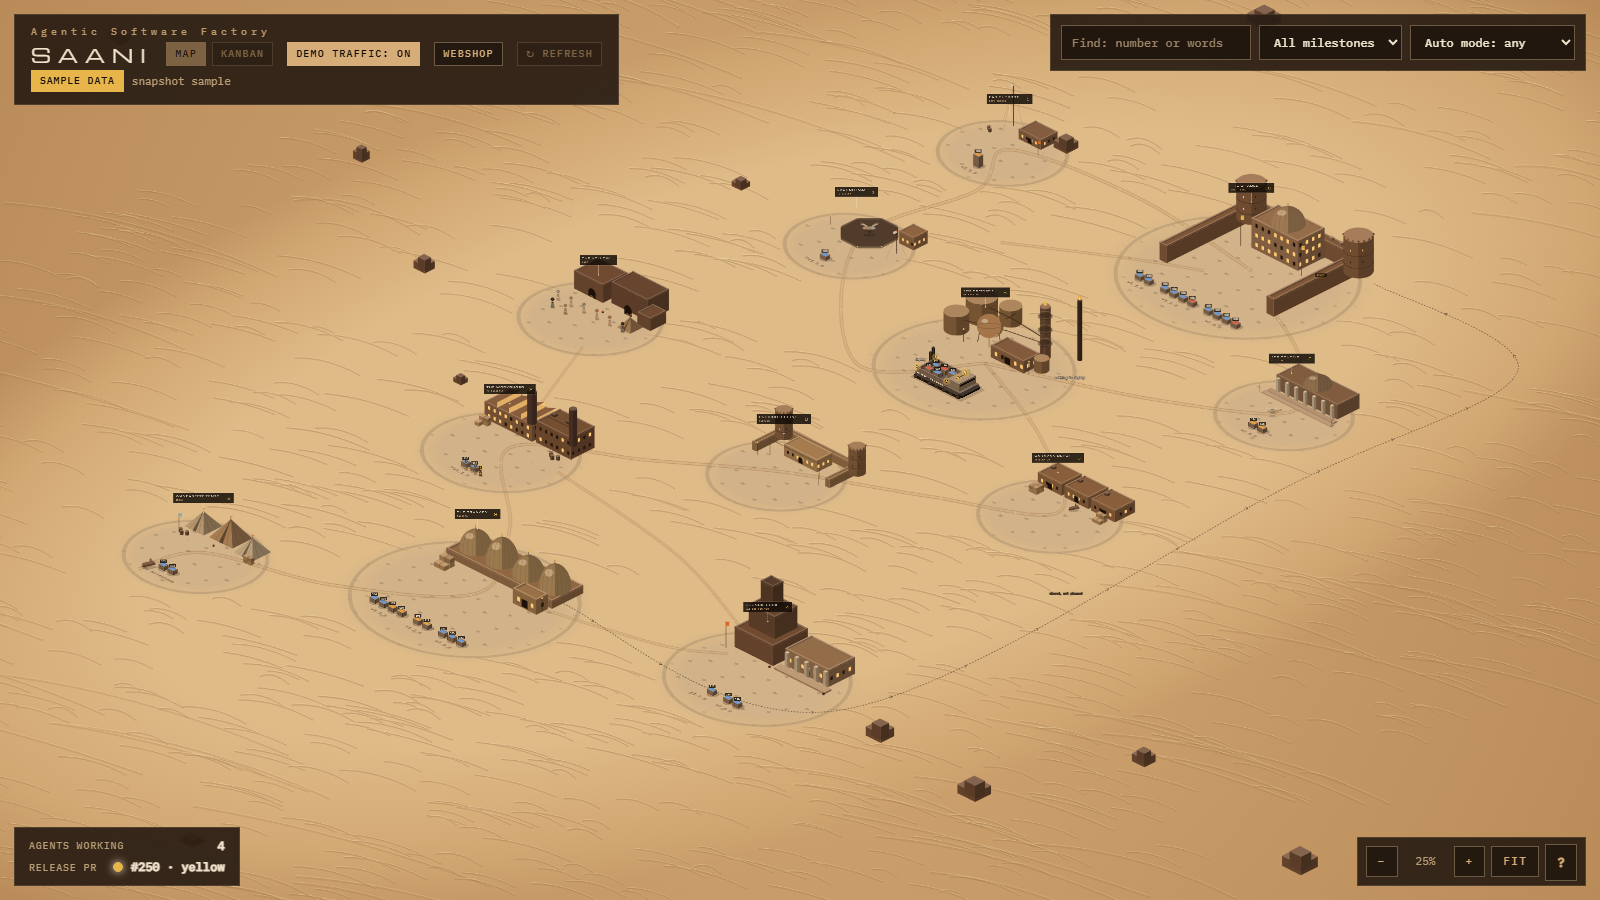
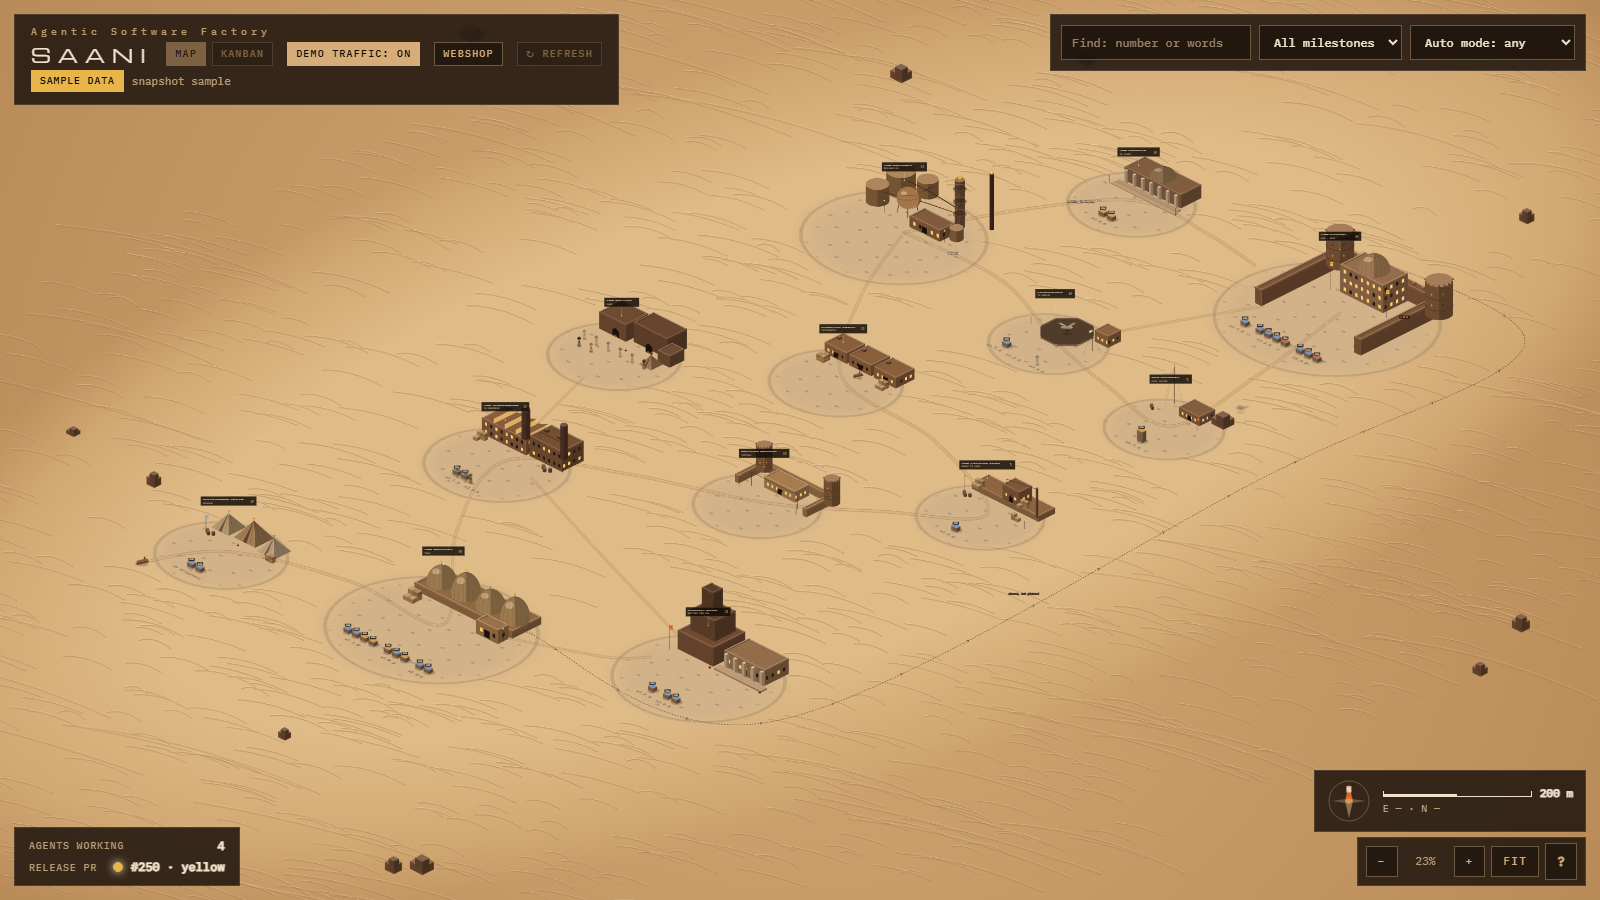
Map: a place's popup lists the same issues the map shows; README: new map screenshot and the Places and their rules popup (refs #117)
One zoneCards(id) feeds the map's layout, every place's popup, the release pull request popup and its tooltip, so the Citadel's popup no longer lists the done issues of closed milestones that the map leaves out.

Why: the owner saw closed milestones' issues in the Citadel popup but not on the map; two separate filters had drifted apart.
Undo: git revert this commit.

diff --git a/saani/map.html b/saani/map.html
@@ -1004,13 +1004,18 @@ function sampleRelease(d) {
   d.pr = {...d.pr, inside: [...new Set([...(d.pr.inside || []), ...extra])]};
   return d;
 }
+// The owner, 2026-11-27: the map and every popup list the same issues. A card's place is zoneOf; shownCard says whether the map draws it (the
+// Citadel leaves out the done issues of closed milestones: the server names them, a milestone it does not name is kept); zoneCards(id) is what
+// the place holds: the map's parked vehicles, its count, and the popup's list all come from it.
+const zoneOf = c => STEP_ZONE[c.step] || "todo";
+const shownCard = c => !(zoneOf(c) === "citadel" && c.milestone && (DATA.closed_milestones || []).includes(c.milestone));
+const zoneCards = id => DATA.cards.filter(c => zoneOf(c) === id && shownCard(c));
 function layout() {
   POS = {}; GROUPS = []; HARV = null;
   const byZone = {};
   // The owner, 2026-11-26: the Citadel leaves out the done issues of closed milestones (the server names them; a milestone it does not
   // name is kept)
-  const closedMs = new Set(DATA.closed_milestones || []);
-  for (const c of DATA.cards) { const z = STEP_ZONE[c.step] || "todo"; if (z === "citadel" && c.milestone && closedMs.has(c.milestone)) continue; (byZone[z] ||= []).push(c); }
+  for (const c of DATA.cards) if (shownCard(c)) (byZone[zoneOf(c)] ||= []).push(c);
   const msKey = m => { const p = (m || "").match(/\d+/g); return p ? p.map(Number).reduce((a, v) => a * 100 + v, 0) : 1e9; };
   for (const [zid, list] of Object.entries(byZone)) {
     if (zid === "tower" && DATA.pr && list.length) { harvesterLayout(ZONE[zid], list); continue; }
@@ -1290,7 +1295,7 @@ $("#map").addEventListener("pointerover", e => {
   const b = e.target.closest(".blk"), w = e.target.closest(".wkr"), z = e.target.closest(".plaque"), hv = !b && e.target.closest(".harv");
   if (b) { const c = DATA.cards.find(x => x.number == b.dataset.n); tip.innerHTML = `<span class="n">#${c.number}</span><span class="t">${esc(c.title)}</span><span class="s">${esc(typeInfo(c).word)} · ${esc(STEP_LABEL[c.step] || c.step)} · ${esc(c.milestone || "no milestone")}${c.need ? " · needs you" : ""}</span>${(ZONE[STEP_ZONE[c.step]] || {}).cmd ? `<span class="s">Command: ${esc(ZONE[STEP_ZONE[c.step]].cmd)}</span>` : ""}`; }
   else if (w) { const k = WORKERS[w.dataset.w]; tip.innerHTML = `<span class="n">${esc(k.name)}${k.folder ? " · " + esc(k.folder) : ""}</span><span class="t">${esc(stateWord(k))}</span><span class="s">${esc(k.model || (k.kind === "planned" ? "not hired yet" : "model not recorded"))}</span>`; }
-  else if (hv && DATA.pr) { const n = DATA.cards.filter(c => c.step === "pr").length; tip.innerHTML = `<span class="n">Release PR #${esc(DATA.pr.number)}</span><span class="t">${esc(DATA.pr.title || "")}</span><span class="s">CI ${esc(ciLook(DATA.pr).word)} · ${n} issue${n > 1 ? "s" : ""} on board · click for details and a prompt</span>`; }
+  else if (hv && DATA.pr) { const n = zoneCards("tower").length; tip.innerHTML = `<span class="n">Release PR #${esc(DATA.pr.number)}</span><span class="t">${esc(DATA.pr.title || "")}</span><span class="s">CI ${esc(ciLook(DATA.pr).word)} · ${n} issue${n > 1 ? "s" : ""} on board · click for details and a prompt</span>`; }
   else if (z) { const zz = ZONE[z.dataset.zone]; tip.innerHTML = `<span class="n">${esc(zz.name)}</span><span class="t">${esc(zz.stage)}</span><span class="s">${esc(hintOf(zz))}${zz.id !== "camp" ? " Click for a prompt covering all its issues." : ""}</span>`; }
   else return hideTip();
   tip.hidden = false; moveTip(e);
@@ -1529,7 +1534,7 @@ function placesPanel() {
       secs));
 }
 function zonePanel(z) {
-  const cards = DATA.cards.filter(c => (STEP_ZONE[c.step] || "todo") === z.id).sort((a, b) => a.number - b.number);
+  const cards = zoneCards(z.id).sort((a, b) => a.number - b.number);
   const f = cards.length ? folderFor(cards[0]) : folderFor({step: ""}), prompt = cards.length ? zonePrompt(z, cards) : null;
   const items = cards.length ? el("ul", {class: "zlist"}, cards.map(c => { const li = el("li", {}, el("span", {class: "zdot", style: `background:${typeInfo(c).color}`}), el("b", {}, "#" + c.number), " ", c.title, el("span", {class: "muted"}, " · " + (c.milestone || "no milestone")));
       li.addEventListener("click", () => { openPanel(issuePanel(c)); if (LIVE && !DETAILS[c.number] && !c.detail) fetchDetail(c); }); return li; }))
@@ -1545,7 +1550,7 @@ function zonePanel(z) {
 }
 // The owner, 2026-11-22: the harvester opens its release PR: link, CI, the issues it carries and a prompt for the whole PR
 function prPanel() {
-  const pr = DATA.pr, z = ZONE.tower, cards = DATA.cards.filter(c => c.step === "pr").sort((a, b) => a.number - b.number), ci = ciLook(pr);
+  const pr = DATA.pr, z = ZONE.tower, cards = zoneCards("tower").sort((a, b) => a.number - b.number), ci = ciLook(pr);
   const f = folderFor({step: "pr"}), prompt = cards.length ? zonePrompt(z, cards) : `Prepare the ${INT()} into ${PROD()} pull request.`;
   const items = cards.length ? el("ul", {class: "zlist"}, cards.map(c => { const li = el("li", {}, el("span", {class: "zdot", style: `background:${typeInfo(c).color}`}), el("b", {}, "#" + c.number), " ", c.title, el("span", {class: "muted"}, " · " + (c.milestone || "no milestone")));
       li.addEventListener("click", () => { openPanel(issuePanel(c)); if (LIVE && !DETAILS[c.number] && !c.detail) fetchDetail(c); }); return li; }))

diff --git a/tests/test_map_places.py b/tests/test_map_places.py
@@ -49,3 +49,13 @@ def test_the_script_parses(tmp_path):
     js.write_text(script, encoding="utf-8")
     done = subprocess.run(["node", "--check", str(js)], capture_output=True, text=True)
     assert done.returncode == 0, done.stderr
+
+
+def test_the_map_and_every_popup_list_the_same_issues():
+    """The Citadel leaves out the done issues of closed milestones on the map; its popup, the release PR's popup and the tower's tooltip
+    take their cards from the same `zoneCards`, never from `DATA.cards` filtered by step again."""
+    assert "const zoneCards = id => DATA.cards.filter(c => zoneOf(c) === id && shownCard(c));" in PAGE
+    assert "if (shownCard(c)) (byZone[zoneOf(c)] ||= []).push(c)" in PAGE                      # the map's layout
+    assert "const cards = zoneCards(z.id).sort(" in PAGE                                       # a place's popup
+    assert 'cards = zoneCards("tower").sort(' in PAGE                                          # the release PR's popup
+    assert not re.search(r'DATA\.cards\.filter\(c => \(?STEP_ZONE\[c\.step\]', PAGE)

diff --git a/README.md b/README.md
@@ -10,6 +10,12 @@ issue stands.
 
 ![The Saani map (synthetic sample data): a desert seen from above, with a settlement for each step of an issue's life along a road from start to end; each issue is a small vehicle parked at its step, the release pull request a harvester in the middle, each running subagent a figure on its issue, and in the corners the Status panel (agents working, the release pull request's CI) and the zoom controls with the "?" that opens the signs](docs/images/map.png)
 
+Every place has a "?" next to its name in its popup: the tooltip says exactly what puts an issue there (its label, branch, worktree, session
+and GitHub status). The "?" menu in the bottom right has a **Places and their rules** button that lists them all, in the order the map
+decides when an issue fits several:
+
+![The "Places and their rules" help popup (synthetic sample data): the ten rules that decide which place an issue sits in, then each place with the conditions that must all be true for an issue to be there](docs/images/places.png)
+
 ## The auto run
 You talk to one **Claude Code** session. In an auto run it works through the open issues by itself, hands each one to worker subagents
 and lands it, while Saani's commands and its guard keep the work safe.
@@ -114,7 +120,7 @@ saani land --worktree ../webshop-wt/42-<slug>   # lock → merge dev → rebuild
 | Terminal | Claude Code | What it does |
 |---|---|---|
 | `saani auto ...` | `/saani:auto [here\|away] [--keep-on] [N ...]` | the auto run above (`auto pick`: the issues it may take now; `auto status`, `auto report`, `auto off --run ID`) |
-| `saani ui [--open]` | `/saani:ui` | the map at `http://127.0.0.1:8771` (this machine only, read-only; the kanban page at `/kanban`): issues, worktrees, test jobs, one figure per running subagent, the release pull request, a Status panel (agents working, the release PR's CI light), the signs behind a "?" button (ending with the Saani release or commit that serves the map); "Stale" when Saani does not answer |
+| `saani ui [--open]` | `/saani:ui` | the map at `http://127.0.0.1:8771` (this machine only, read-only; the kanban page at `/kanban`): issues, worktrees, test jobs, one figure per running subagent, the release pull request, a Status panel (agents working, the release PR's CI light), the signs behind a "?" button (with a Places and their rules help, and a "?" tooltip in each place's popup that gives its criteria; ending with the Saani release or commit that serves the map); "Stale" when Saani does not answer |
 | `saani projects [list\|add [FOLDER]\|remove OWNER/NAME]` | `/saani:projects` | the projects the map's selector offers: one map shows them all |
 | `saani status` | `/saani:status` | what runs, what is blocked or waits in Saani's machinery (or: no activity); `--stats`: landings, test queue medians |
 | `saani start <n> [--hotfix]` | `/saani:start 42` | a worktree and branch for issue `n` from the integration branch (a hotfix starts from the prod tag) |
